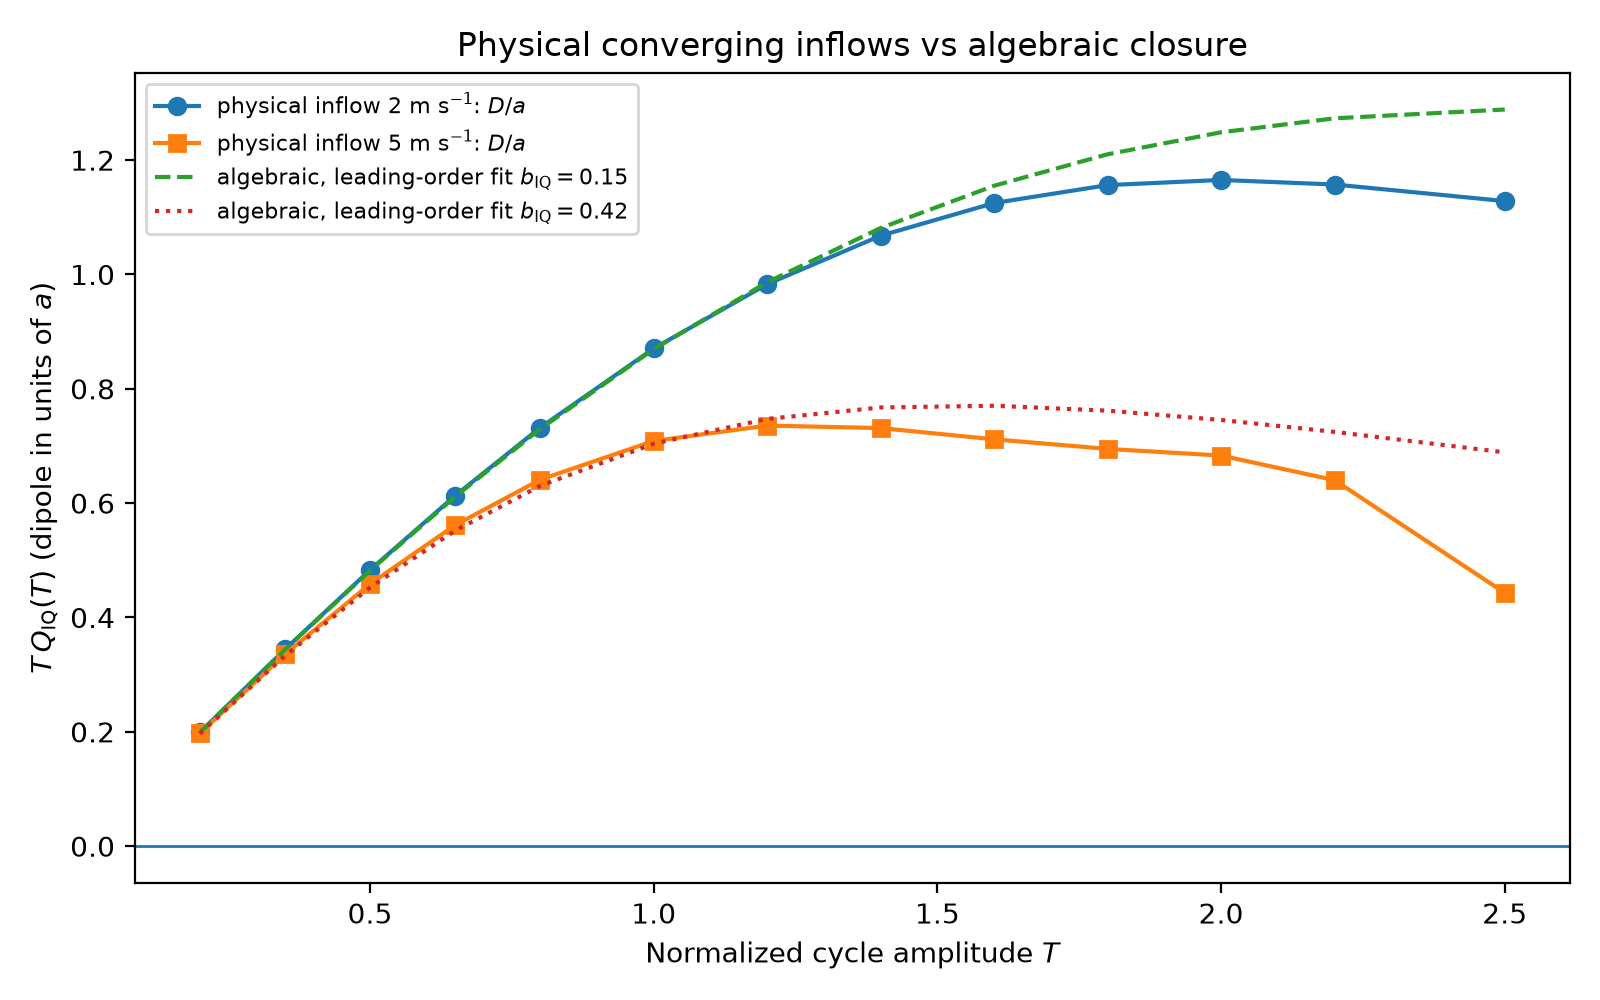
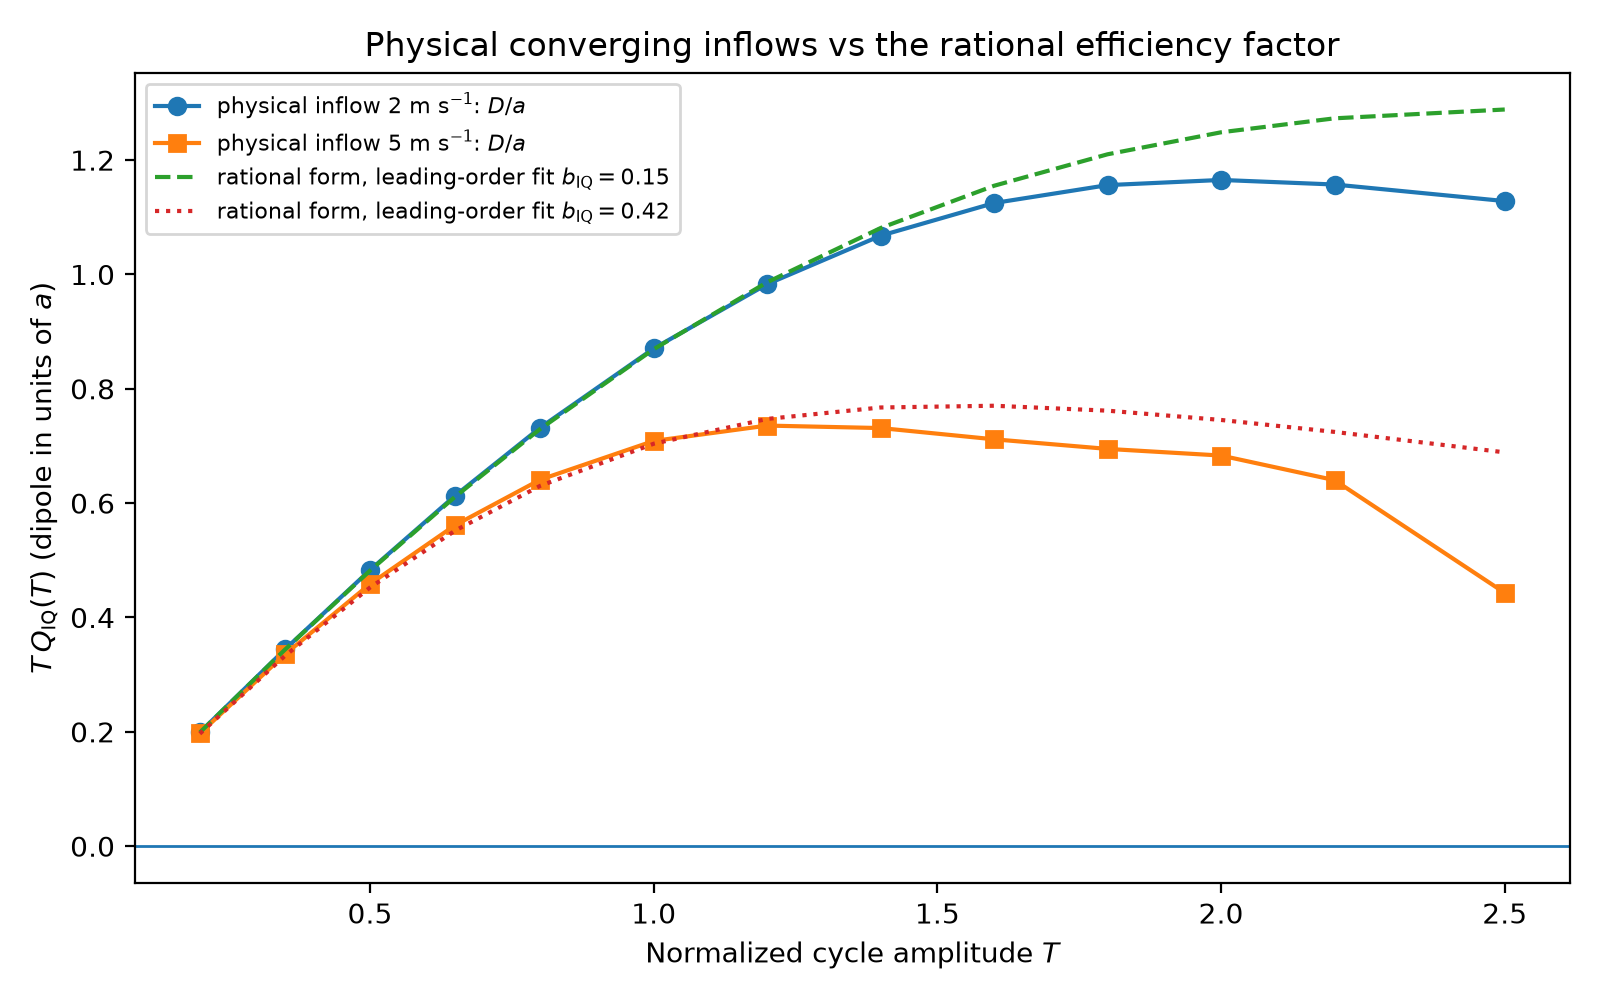
Reserve "algebraic" for the Petrovay et al. sense
In solar-cycle modelling "algebraic" refers to the algebraic dipole-yield
method of Petrovay, Nagy and Yeates (2020). The code and documentation also
used it for the reduced quenching factors of the form 1/(1 + b T^2), which
are a different thing entirely and belong to this framework rather than to
that method.

Those factors are now called rational, which is what they are: a [0/1] Pade
approximant is a rational function of T^2. Where the word described the
coefficient b rather than the functional form, it becomes "quenching
strength", matching the label already used for b_TQ, b_LQ and b_IQ. One use
in the belt-average docstring meant "closed form" and becomes "functional
form".

The V4 and V5 figure titles and legends are regenerated accordingly; V4 is
reproduced in the manuscript, so its plotted labels would otherwise have
contradicted the revised caption.

Claude-Session: https://claude.ai/code/session_01PmgudpFb3qQz1S9TE53gMs

Changed region(s): [[0.125, 0.155, 0.4375, 0.248], [0.2188, 0.031, 0.8438, 0.062]]

diff --git a/physical_validation_analysis.py b/physical_validation_analysis.py
@@ -37,10 +37,10 @@ framework -- no tuned parameters.
 4.  Physical converging inflows.
     The SFT is run with inflow_mode = "physical" at 2 and 5 m/s. Inflows act
     on the transport operator, so no kernel prediction exists -- that is the
-    point of the test: how well can a source-side algebraic factor
+    point of the test: how well can a source-side rational factor
     Q_IQ = 1/(1 + b_IQ T^2) absorb a transport-side nonlinearity? The
     effective strength b_eff(T) = (1/Q_IQ - 1)/T^2 measures the quality of
-    the algebraic form (constant b_eff = perfect form).
+    the rational form (constant b_eff = perfect form).
 
 Outputs are saved to ./figures_validation/.
 """
@@ -325,7 +325,7 @@ if __name__ == "__main__":
     with np.errstate(divide="ignore", invalid="ignore"):
         b_eff5 = np.where(Q_inf5 > 0, (1.0 / Q_inf5 - 1.0) / T_VALUES**2, np.nan)
 
-    # Least-squares algebraic fits: leading order (T <= 1.2) and full scan
+    # Least-squares fits of the rational form: leading order and full scan
     def fit_b(Q: np.ndarray, Tmax: float = np.inf) -> float:
         good = (Q > 0) & (T_VALUES <= Tmax)
         return float(np.sum((1.0 / Q[good] - 1.0) * T_VALUES[good] ** 2)
@@ -333,9 +333,9 @@ if __name__ == "__main__":
 
     b_lead2, b_full2 = fit_b(Q_inf2, 1.2), fit_b(Q_inf2)
     b_lead5, b_full5 = fit_b(Q_inf5, 1.2), fit_b(Q_inf5)
-    print(f"Effective algebraic strength, 2 m/s: b_eff(1) = {b_eff2[5]:.3f}, "
+    print(f"Effective quenching strength, 2 m/s: b_eff(1) = {b_eff2[5]:.3f}, "
           f"leading-order fit (T<=1.2) {b_lead2:.3f}, full-scan fit {b_full2:.3f}")
-    print(f"Effective algebraic strength, 5 m/s: b_eff(1) = {b_eff5[5]:.3f}, "
+    print(f"Effective quenching strength, 5 m/s: b_eff(1) = {b_eff5[5]:.3f}, "
           f"leading-order fit (T<=1.2) {b_lead5:.3f}, full-scan fit {b_full5:.3f}")
 
     # ---------------------------------------------------------------
@@ -388,24 +388,24 @@ if __name__ == "__main__":
     plt.savefig(os.path.join(OUTDIR, "figV3_tilt_exact.png"), dpi=200)
     plt.close()
 
-    # V4: physical inflows vs algebraic closure
+    # V4: physical inflows vs the rational efficiency factor
     plt.figure(figsize=(8, 5))
     plt.plot(T_VALUES, D_inf2 / a_lin, "o-", label=r"physical inflow 2 m s$^{-1}$: $D/a$")
     plt.plot(T_VALUES, D_inf5 / a_lin, "s-", label=r"physical inflow 5 m s$^{-1}$: $D/a$")
     plt.plot(T_VALUES, T_VALUES / (1.0 + b_lead2 * T_VALUES**2), "--",
-             label=fr"algebraic, leading-order fit $b_{{\rm IQ}} = {b_lead2:.2f}$")
+             label=fr"rational form, leading-order fit $b_{{\rm IQ}} = {b_lead2:.2f}$")
     plt.plot(T_VALUES, T_VALUES / (1.0 + b_lead5 * T_VALUES**2), ":",
-             label=fr"algebraic, leading-order fit $b_{{\rm IQ}} = {b_lead5:.2f}$")
+             label=fr"rational form, leading-order fit $b_{{\rm IQ}} = {b_lead5:.2f}$")
     plt.axhline(0.0, linewidth=1)
     plt.xlabel(r"Normalized cycle amplitude $T$")
     plt.ylabel(r"$T\,Q_{\rm IQ}(T)$ (dipole in units of $a$)")
-    plt.title("Physical converging inflows vs algebraic closure")
+    plt.title("Physical converging inflows vs the rational efficiency factor")
     plt.legend(fontsize=8)
     plt.tight_layout()
     plt.savefig(os.path.join(OUTDIR, "figV4_inflow_validation.png"), dpi=200)
     plt.close()
 
-    # V5: effective algebraic strength
+    # V5: effective quenching strength
     plt.figure(figsize=(8, 5))
     plt.plot(T_VALUES, b_eff2, "o-", label=r"2 m s$^{-1}$")
     plt.plot(T_VALUES, b_eff5, "s-", label=r"5 m s$^{-1}$")
@@ -413,7 +413,7 @@ if __name__ == "__main__":
                 label=r"calibrated $b_{\rm IQ} = 0.2$ (Talafha et al. 2025)")
     plt.xlabel(r"Normalized cycle amplitude $T$")
     plt.ylabel(r"$b_{\rm eff}(T) = (1/Q_{\rm IQ} - 1)/T^2$")
-    plt.title("Constancy test of the algebraic inflow closure")
+    plt.title("Constancy test of the rational inflow factor")
     plt.legend(fontsize=8)
     plt.tight_layout()
     plt.savefig(os.path.join(OUTDIR, "figV5_binflow_effective.png"), dpi=200)

diff --git a/nonlinear_response_sft_experiment.py b/nonlinear_response_sft_experiment.py
@@ -156,7 +156,7 @@ class SFTParams:
     # Inflow amplitude [m/s] for T=1, scaled as T^2.
     # 2 m/s is a moderate value giving a clean response-theory validation;
     # 5 m/s is a deliberately strong over-quenching test, still positive but
-    # no longer well described by a single algebraic strength.
+    # no longer well described by a single quenching strength.
     inflow_amp_m_s: float = 2.0
     inflow_width_deg: float = 12.0
 
@@ -196,7 +196,7 @@ class SFTParams:
     # validation analogous to latitude quenching.
     # "physical" applies an explicit converging flow. This acts on the
     # transport operator rather than on the source, so it introduces
-    # amplitude dependence that the simple algebraic Q_I closure only
+    # amplitude dependence that the simple rational Q_I factor only
     # approximates.
     inflow_mode: str = "efficiency"
 
@@ -588,7 +588,7 @@ def Q_LQ(T: np.ndarray | float, p: SFTParams) -> np.ndarray | float:
     "belt" mode: closed-form envelope-weighted average of the instantaneous
     factor exp(-[2 lambda0(t) delta + delta^2]/(2 lamR^2)) over the Gaussian
     cycle envelope. Because the exponent is linear in t, the Gaussian average
-    is exact and yields the same algebraic form with lambda0 replaced by the
+    is exact and yields the same functional form with lambda0 replaced by the
     belt latitude at cycle maximum, lambda_bar_0, and delta^2 reduced by the
     variance correction (1 - epsilon):
 

diff --git a/tests/test_identities.py b/tests/test_identities.py
@@ -163,7 +163,7 @@ def test_dlnQ_analytic_vs_numerical():
         assert nre.reduced_dlnQ_dT(T, *args) == pytest.approx(num, rel=1e-6)
 
 
-def test_single_algebraic_quenching_multiplier():
+def test_single_rational_quenching_multiplier():
     # For Q = 1/(1 + b T^2) alone: T* = sqrt((D0-1)/b) and
     # M'(T*) = (2 - D0)/D0, unconditionally stable for D0 > 1.
     b, D0 = 0.5, 3.0

diff --git a/docs/theory_review_and_enhancement.md b/docs/theory_review_and_enhancement.md
@@ -262,12 +262,12 @@ source-side factor Q_I(T) requires two assumptions worth stating:
    final dipole is linear in the inflow amplitude, which scales as T²; the
    leading-order effect is therefore a multiplicative reduction
    1 − b_I T² + 𝒪(T⁴).
-2. **Padé resummation.** The algebraic form 1/(1 + b_I T²) is the [0/1] Padé
+2. **Padé resummation.** The rational form 1/(1 + b_I T²) is the [0/1] Padé
    approximant of that series. It agrees with the perturbative result at
    small T while remaining positive and monotonically decreasing for all T —
    the minimal well-behaved extension.
 
-The same argument justifies the algebraic form of Q_TQ. The manuscript
+The same argument justifies the rational form of Q_TQ. The manuscript
 currently gives the forms without motivation; two sentences to this effect
 close the logical gap. The explicit converging-inflow mode remains in the
 code for exploratory runs, but note the caveat in Section 3.6.
@@ -333,7 +333,7 @@ $$
 \boxed{\;q(T_*) \ge 2\;}
 $$
 
-**(iii) A single algebraic quenching never destabilises.** For
+**(iii) A single rational quenching factor never destabilises.** For
 Q = 1/(1 + bT²) alone, the fixed point is T\* = √((D₀−1)/b) and
 
 $$
@@ -345,7 +345,7 @@ The fixed point is unconditionally stable, for *any* quenching strength b and
 any gain. This explains at one stroke why simple tilt-quenched
 Babcock–Leighton models are so robustly steady: the map cannot period-double.
 
-**(iv) Stacked algebraic quenchings.** For Q = Π_i 1/(1 + b_iT²),
+**(iv) Stacked rational quenchings.** For Q = Π_i 1/(1 + b_iT²),
 q(T\*) = Σ_i 2s_i with saturation fractions s_i = b_iT\*²/(1 + b_iT\*²) < 1.
 Instability requires Σ s_i > 1, hence **at least two mechanisms**, each
 already substantially saturated. For two equal strengths, the condition is
@@ -364,7 +364,7 @@ where the second equality uses the fixed-point condition. Hence latitude
 quenching alone is **always period-doubling unstable when D₀ ≥ e ≈ 2.72**,
 and for D₀ < e it destabilises once δ\*² > 2λ_R²(1 − ln D₀)/(1−ε). The
 super-exponential tail of the Gaussian factor is what allows q to grow
-without bound — algebraic factors saturate at q → 2 per factor, the Gaussian
+without bound — rational factors saturate at q → 2 per factor, the Gaussian
 factor does not. This is the analytic content behind the structure of the
 stability map (Figs. 9–11): the unstable region is entered by increasing
 b_LQ far more readily than by increasing b_TQ.
@@ -518,7 +518,7 @@ Interpretation:
    ε = 0.0144 for the reference parameters, and give b_LQ its units
    (degrees).
 3. **After Eq. (24) and Eq. (28):** add the Padé/linearisation justification
-   for the algebraic forms (Sections 3.2 and 3.4).
+   for the rational forms (Sections 3.2 and 3.4).
 4. **After Eq. (32):** state the independence assumption of the product
    closure (Section 3.5).
 5. **Section 1.13:** add the identity linking ℛ to 𝓜′ (Section 3.8).

diff --git a/README.md b/README.md
@@ -16,9 +16,9 @@ three quenching mechanisms:
 
 | Factor | Form | Mechanism |
 |--------|------|-----------|
-| `Q_TQ(T) = 1 / (1 + b_TQ T²)` | algebraic | tilt quenching — stronger cycles produce smaller polarity separations |
+| `Q_TQ(T) = 1 / (1 + b_TQ T²)` | rational | tilt quenching — stronger cycles produce smaller polarity separations |
 | `Q_LQ(T) = exp(−[2 λ̄₀ δ + (1 − ε) δ²] / (2 λ_R²))`, `δ = b_LQ T²` | Gaussian | latitude quenching — stronger cycles emerge at higher latitudes, where flux contributes less to the dipole |
-| `Q_I(T) = 1 / (1 + b_I T²)` | algebraic | inflow quenching — converging flows towards the activity belts reduce dipole build-up |
+| `Q_I(T) = 1 / (1 + b_I T²)` | rational | inflow quenching — converging flows towards the activity belts reduce dipole build-up |
 
 Here `λ̄₀` is the activity-weighted mean emergence latitude (the belt latitude
 at cycle maximum) and `ε` a small variance correction; both come from the
@@ -144,8 +144,8 @@ point).
   the closure itself.
 - For the reduced cycle map: a nonzero fixed point exists and is unique
   exactly when `D₀ > 1`; instability is only possible through period
-  doubling, with criterion `q(T*) = −dlnQ/dlnT ≥ 2`. A single algebraic
-  quenching can never destabilise the cycle, whereas Gaussian latitude
+  doubling, with criterion `q(T*) = −dlnQ/dlnT ≥ 2`. A single rational
+  quenching factor can never destabilise the cycle, whereas Gaussian latitude
   quenching always does for `D₀ ≥ e` — the analytic content behind the
   structure of the stability map.
 - The reduced theory with `Q > 0` describes saturation and over-quenched
@@ -165,7 +165,7 @@ point).
   with a derived λ_R = 12.1°, and the Gaussian closure built from that
   derived range reproduces the physical belt shift to 1.1 × 10⁻² in `Q`,
   against 0.35 for the prescribed λ_R = 20°; an improved cubic tilt closure
-  reaches 4 × 10⁻⁵; physical inflows follow the algebraic Q_I closely at
+  reaches 4 × 10⁻⁵; physical inflows follow the rational Q_I closely at
   calibrated strengths, with a mildly super-quadratic departure at larger
   amplitudes.
 - Multi-cycle SFT with dynamo feedback shows the map's memoryless

diff --git a/docs/physical_validation.md b/docs/physical_validation.md
@@ -118,11 +118,11 @@ and its error now has a measured, first-principles origin.
 
 Inflows modify the *transport operator*, so no kernel prediction exists —
 which is precisely what makes this the hardest test for a source-side
-algebraic factor Q_I = 1/(1 + b_I T²) (Figures V4, V5):
+rational factor Q_I = 1/(1 + b_I T²) (Figures V4, V5):
 
 * At the reference inflow amplitude (2 m s⁻¹ at T = 1, scaling as T²), the
   effective strength at the calibration point is b_eff(T = 1) = **0.149**,
-  and the leading-order fit over T ≤ 1.2 gives b_I ≈ 0.150. The algebraic
+  and the leading-order fit over T ≤ 1.2 gives b_I ≈ 0.150. The rational
   form is a good description for weak-to-moderate cycles, but **b_eff grows
   with T** (full-scan fit 0.183): the physical nonlinearity is mildly
   super-quadratic, and the constant-b form slightly under-predicts the
@@ -130,7 +130,7 @@ algebraic factor Q_I = 1/(1 + b_I T²) (Figures V4, V5):
 * At 5 m s⁻¹ the effective strength rises to b_eff(1) = **0.411** (full-scan
   fit 0.584), and the departure from a constant b is correspondingly larger.
   The dipole nevertheless stays positive across the whole amplitude scan, so
-  the algebraic closure remains inside its domain of validity; it simply
+  the rational factor remains inside its domain of validity; it simply
   loses accuracy.
 * Cross-calibration: b_eff(1) = 0.149 at 2 m s⁻¹ and 0.411 at 5 m s⁻¹ imply
   that the paper-calibrated b_I = 0.2 (Talafha, Petrovay and Opitz 2025)
@@ -172,7 +172,7 @@ work depends on them.
    everywhere, essentially exact with the cubic yield. Latitude (efficiency
    mode): excellent with yield-weighted moments. Latitude (physical shift):
    accurate to about 1 % in Q *provided* the derived λ_R,pair is used.
-   Inflows: algebraic form good at observationally calibrated strengths,
+   Inflows: rational form good at observationally calibrated strengths,
    mildly super-quadratic beyond.
 3. **The manuscript should distinguish carefully between the two
    effectivity ranges**: the prescribed closure parameter (20°, a

diff --git a/docs/mathematical_framework.md b/docs/mathematical_framework.md
@@ -195,7 +195,7 @@ memory-corrected map and its validation.
 | Reduction P = aTQ for source-side factors | **Exact identity** given the kernel (not an ansatz) |
 | Latitude-quenching closure | **Derived** to 2.4 × 10⁻⁶ (yield-weighted Gaussian); envelope form is its parameter-free approximation |
 | Effectivity range λ_R | **Measured**: 29.2° for a point source, 12.1° for the ring pair; the closure's 20° is a free demonstration parameter |
-| Tilt/inflow algebraic forms | Prescribed (Padé closures; see review document §3.2, §3.4) |
+| Tilt/inflow rational forms | Prescribed (Padé closures; see review document §3.2, §3.4) |
 | Stability boundary of the cycle map | **Analytic**, confirmed dynamically to the resolution of the bifurcation scan |
 
 ## 6. Additions recommended for the manuscript
